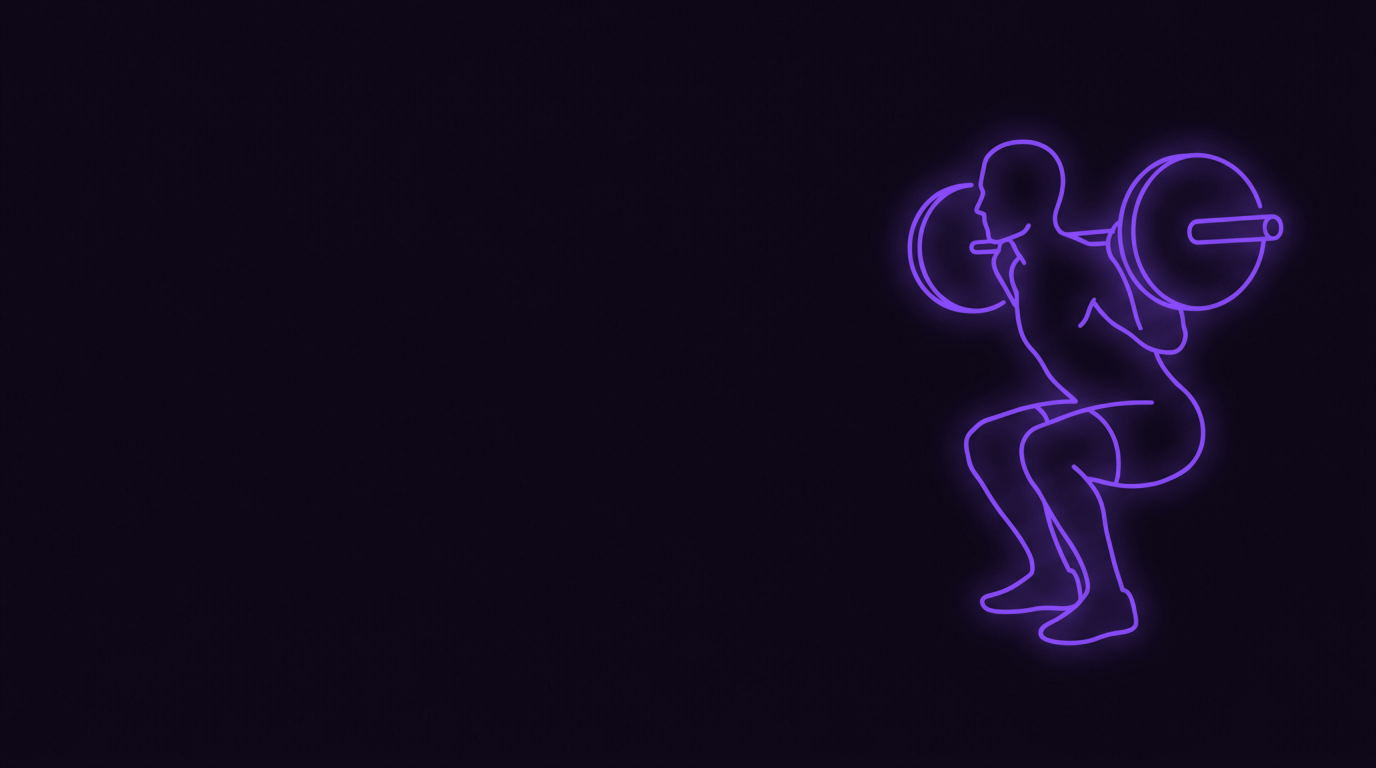
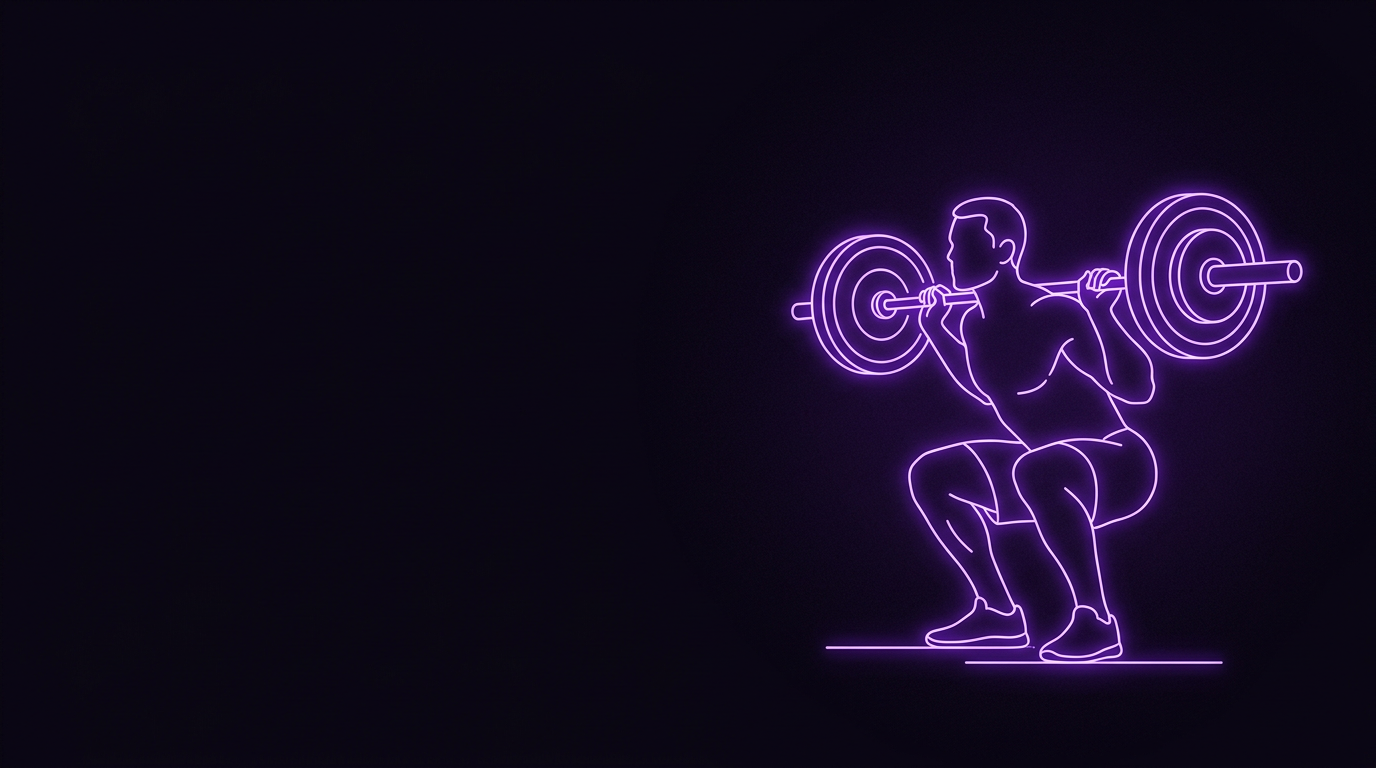
feat(okiro): el rango pasa a medir racha y el aura de la marca sube con el
MECANICA (la parte honesta del kit)
- El rango E-S ya no sale del nivel: mide dias seguidos con registro
  (E 0-2, D 3-6, C 7-13, B 14-29, A 30-59, S 60+). Si hoy aun no has
  registrado, la racha de ayer sigue viva hasta que el dia termine.
- El nivel/XP se queda como estaba: miden volumen, no constancia.
- El simbolo de la cabecera ahora es dinamico: el aura sube de altura y se
  enciende segun tu rango (posicion cy + color por rango). En E apenas asoma
  un filo gris; en S esta alta e incandescente.
- La linea de HOY muestra RACHA N DIAS con el color de aura del rango.
- El backend devuelve 90 dias de logs en vez de 30: con 30 el rango S era
  incomputable en el cliente.

VOZ (kit de marca: constata, no consuela)
- Toasts sin emojis: "RANGO C. El aura sube." / "NIVEL 5."
- Prompts de la IA rebrandeados: el sistema OKIRO habla en imperativo, corto,
  sin emojis ni exclamaciones. La escala semanal incluye el rango E.

ASSETS (generados en Higgsfield web, 0 creditos)
- Banners PUSH y LEGS nativos en violeta de marca (el PULL queda recoloreado).
- Fondo del lock screen: el horizonte con el aura subiendo (lock-bg.png),
  con fallback en degradado CSS si la imagen no carga.

LIMPIEZA
- Ultimas referencias a OkiroSport renombradas (server, package.json, mock).
- Service worker a v4.1.0.

Changed region(s): [[0.5625, 0.1562, 0.9688, 0.9062]]

diff --git a/src/js/app.js b/src/js/app.js
@@ -382,10 +382,12 @@ function renderChecklist(d) {
 function renderStreakInfo() {
   const el = document.getElementById('hoy-streak-info');
   if (!el) return;
-  const lvl = localStorage.getItem('okiro_lvl') || '1';
-  const xp  = parseInt(localStorage.getItem('okiro_xp') || '0', 10);
+  const lvl    = localStorage.getItem('okiro_lvl') || '1';
+  const xp     = parseInt(localStorage.getItem('okiro_xp') || '0', 10);
+  const streak = parseInt(localStorage.getItem('okiro_streak') || '0', 10);
+  const rank   = localStorage.getItem('okiro_rank') || 'E';
   el.innerHTML = `
-    <span class="hoy-streak-fire">🔥</span>
+    <span style="color:${AURA_COLOR[rank] || '#8B4DFF'}">RACHA ${streak} ${streak === 1 ? 'DÍA' : 'DÍAS'}</span>
     <span>LVL ${lvl}</span>
     <span class="hoy-streak-xp">${xp.toLocaleString('es')} XP</span>`;
 }
@@ -444,13 +446,43 @@ function dayXP(l) {
   return xp;
 }
 
-function rankForLevel(lvl) {
-  if (lvl >= 26) return ['S', 'rank-s'];
-  if (lvl >= 17) return ['A', 'rank-a'];
-  if (lvl >= 10) return ['B', 'rank-b'];
-  if (lvl >= 5)  return ['C', 'rank-c'];
-  if (lvl >= 2)  return ['D', 'rank-d'];
+/* Racha: días seguidos con registro, contando hacia atrás desde hoy.
+   Si hoy aún no has registrado, la racha de ayer sigue viva (no se rompe
+   hasta que el día termina sin registro). */
+function currentStreak(logs) {
+  if (!Array.isArray(logs) || !logs.length) return 0;
+  const days = new Set(logs.map(l => String(l.fecha).slice(0, 10)));
+  const iso  = d => `${d.getFullYear()}-${String(d.getMonth() + 1).padStart(2, '0')}-${String(d.getDate()).padStart(2, '0')}`;
+  const d = new Date();
+  if (!days.has(iso(d))) d.setDate(d.getDate() - 1);
+  let streak = 0;
+  while (days.has(iso(d))) { streak++; d.setDate(d.getDate() - 1); }
+  return streak;
+}
+
+/* El rango mide constancia, no fuerza: días seguidos levantándote y
+   registrando (kit de marca). El nivel/XP sigue midiendo volumen aparte. */
+function rankForStreak(n) {
+  if (n >= 60) return ['S', 'rank-s'];
+  if (n >= 30) return ['A', 'rank-a'];
+  if (n >= 14) return ['B', 'rank-b'];
+  if (n >= 7)  return ['C', 'rank-c'];
+  if (n >= 3)  return ['D', 'rank-d'];
   return ['E', 'rank-e'];   // donde empieza todo el mundo
+}
+
+/* El aura del símbolo de cabecera sube y se enciende con el rango */
+const AURA_COLOR = { E: '#4B4557', D: '#6D5A9E', C: '#8B4DFF', B: '#A472FF', A: '#C08BFF', S: '#E4C4FF' };
+const AURA_CY    = { E: 76, D: 70, C: 62, B: 58, A: 55, S: 52 };
+function setHdrAura(label) {
+  const aura  = document.getElementById('hdr-aura');
+  const faint = document.getElementById('hdr-faint');
+  const cy    = AURA_CY[label] ?? 62;
+  if (aura) {
+    aura.setAttribute('cy', cy);
+    aura.setAttribute('stroke', AURA_COLOR[label] || '#8B4DFF');
+  }
+  if (faint) faint.setAttribute('cy', cy);
 }
 
 function updatePlayer(logs) {
@@ -471,14 +503,26 @@ function updatePlayer(logs) {
   if (lvlEl)  lvlEl.textContent  = 'LVL ' + lvl;
   if (fillEl) fillEl.style.width = Math.min(100, Math.round((rem / need) * 100)) + '%';
   if (xpEl)   xpEl.textContent   = rem + ' / ' + need + ' XP';
+
+  /* Rango por racha, no por nivel (kit de marca) */
+  const streak = currentStreak(logs);
+  const [label, cls] = rankForStreak(streak);
   if (chip) {
-    const [label, cls] = rankForLevel(lvl);
     chip.textContent = label;
-    chip.className    = 'rank-badge ' + cls;
+    chip.className   = 'rank-badge ' + cls;
   }
+  setHdrAura(label);
+
+  const prevRank = localStorage.getItem('okiro_rank') || '';
+  const ORDER = 'EDCBAS';
+  if (prevRank && ORDER.indexOf(label) > ORDER.indexOf(prevRank) && typeof toast === 'function') {
+    toast(`RANGO ${label}. El aura sube.`, 'ok');
+  }
+  localStorage.setItem('okiro_rank', label);
+  localStorage.setItem('okiro_streak', String(streak));
 
   if (prevLvl && lvl > prevLvl && typeof toast === 'function') {
-    toast(`⬆ NIVEL ${lvl} — RANGO ${rankForLevel(lvl)[0]}`, 'ok');
+    toast(`NIVEL ${lvl}.`, 'ok');
   }
   localStorage.setItem('okiro_lvl', String(lvl));
 

diff --git a/server.js b/server.js
@@ -1,4 +1,4 @@
-// OkiroSport Backend v3 — producción
+// OKIRO Backend v4 — producción
 // Requiere Node 18+ (usa fetch global)
 const express = require('express');
 const { Pool } = require('pg');
@@ -134,7 +134,8 @@ app.get('/health', async (req, res) => {
 // ════════════════════════════════════════════════════════
 app.get('/logs', async (req, res) => {
   try {
-    const { rows } = await db('SELECT * FROM daily_logs ORDER BY fecha DESC LIMIT 30');
+    // 90 días: con 30 el rango S (racha de 60+) era incomputable en el cliente
+    const { rows } = await db('SELECT * FROM daily_logs ORDER BY fecha DESC LIMIT 90');
     res.json(rows);
   } catch (e) { res.status(500).json({ error: e.message }); }
 });
@@ -524,7 +525,8 @@ async function buildPromptDaily() {
     { calorias: 0, proteinas: 0, carbos: 0, grasas: 0 }
   );
   const entreno = logHoy.entreno_completado ? `sí (${logHoy.tipo_entreno || 'sin tipo'})` : 'no';
-  return `Eres el sistema de análisis de rendimiento de OkiroSport.
+  return `Eres el sistema OKIRO ("levántate"). Hablas en imperativo, corto y sin adornos.
+Constatas, no consuelas ni celebras de más. Cero emojis, cero exclamaciones.
 Atleta: ${APP_USER_NAME}. Híbrido gym + running + emprendedor.
 
 LOG DE HOY:
@@ -545,7 +547,7 @@ Da un análisis breve (máx 150 palabras) con:
 2. Punto fuerte
 3. Punto a mejorar mañana
 4. Puntuación del día X/10
-Responde en español, tono directo de sistema RPG.`;
+Responde en español. Sin emojis. Frases cortas, de sistema, no de coach.`;
 }
 
 async function buildPromptWeekly() {
@@ -558,7 +560,8 @@ async function buildPromptWeekly() {
   const media = (fn) => logs.length ? (logs.reduce((s, l) => s + (parseFloat(fn(l)) || 0), 0) / logs.length).toFixed(1) : '—';
   const totalTareas = logs.reduce((s, l) => s + (parseInt(l.tareas_completadas) || 0), 0);
   const tipos = [...new Set(logs.filter(l => l.entreno_completado && l.tipo_entreno).map(l => l.tipo_entreno))].join(', ') || 'ninguno';
-  return `Eres el sistema de análisis de rendimiento de OkiroSport.
+  return `Eres el sistema OKIRO ("levántate"). Hablas en imperativo, corto y sin adornos.
+Constatas, no consuelas ni celebras de más. Cero emojis, cero exclamaciones.
 Atleta: ${APP_USER_NAME}. Híbrido gym + running + emprendedor.
 
 RESUMEN SEMANAL (últimos 7 días):
@@ -575,8 +578,8 @@ Da un análisis semanal (máx 200 palabras) con:
 2. Mejor día y por qué
 3. Patrón a corregir
 4. Objetivo concreto para la próxima semana
-5. Rango de la semana: D/C/B/A/S con justificación
-Responde en español, tono directo de sistema RPG.`;
+5. Rango de la semana: E/D/C/B/A/S con justificación
+Responde en español. Sin emojis. Frases cortas, de sistema, no de coach.`;
 }
 
 app.post('/ia/resumen', async (req, res) => {
@@ -708,7 +711,7 @@ app.patch('/logs/:fecha/nota', async (req, res) => {
 
 // ── Fallback SPA: cualquier GET no-API sirve el index ────
 app.listen(PORT, () => {
-  console.log(`OkiroSport Backend v3.0 · :${PORT}`);
+  console.log(`OKIRO Backend v4.0 · :${PORT}`);
   console.log(`· Auth:  ${APP_TOKEN ? 'ACTIVADA (APP_TOKEN)' : 'DESACTIVADA — define APP_TOKEN en producción'}`);
   console.log(`· IA:    ${ANTHROPIC_KEY ? `activa · modelo ${AI_MODEL} · límite ${AI_DAILY_LIMIT}/día` : 'sin ANTHROPIC_API_KEY'}`);
 });

diff --git a/mock.js b/mock.js
@@ -1,4 +1,4 @@
-// ============================================================
+// ============================================================
 // MOCK DE DATOS — SOLO DESARROLLO LOCAL
 // ============================================================
 // Solo se activa si la URL lleva ?mock=1 (o localStorage.OKIRO_MOCK='1').
@@ -96,7 +96,7 @@
   ];
 
   const MOCK_PROYECTOS = [
-    { id: 1, nombre: 'OkiroSport PWA',      objetivo: 'MVP desplegado',          progreso: 78, ultima_accion: 'Deploy v2 + módulo gym' },
+    { id: 1, nombre: 'OKIRO PWA',      objetivo: 'MVP desplegado',          progreso: 78, ultima_accion: 'Deploy v2 + módulo gym' },
     { id: 2, nombre: 'Agencia IA Freelance', objetivo: 'Primer cliente cerrado',  progreso: 45, ultima_accion: 'Propuesta cliente #3'   },
     { id: 3, nombre: 'Contenido Training',   objetivo: '1k seguidores',           progreso: 30, ultima_accion: 'Vídeo Press Banca'       }
   ];

diff --git a/index.html b/index.html
@@ -89,8 +89,8 @@
    <div id="hdr-brand">
     <svg viewBox="0 0 100 100" width="26" height="26" aria-hidden="true" id="hdr-mark">
      <defs><clipPath id="hdr-hz"><rect x="0" y="0" width="100" height="62"/></clipPath></defs>
-     <circle cx="50" cy="62" r="24" fill="none" stroke="currentColor" stroke-width="6" opacity="0.25"/>
-     <circle cx="50" cy="62" r="24" fill="none" stroke="var(--brand)" stroke-width="6" clip-path="url(#hdr-hz)"/>
+     <circle id="hdr-faint" cx="50" cy="62" r="24" fill="none" stroke="currentColor" stroke-width="6" opacity="0.25"/>
+     <circle id="hdr-aura" cx="50" cy="62" r="24" fill="none" stroke="var(--brand)" stroke-width="6" clip-path="url(#hdr-hz)"/>
      <line x1="14" y1="62" x2="86" y2="62" stroke="currentColor" stroke-width="4" stroke-linecap="square"/>
     </svg>
     <div><p id="fh">HOY</p><h1>OKIRO</h1></div>

diff --git a/src/css/styles.css b/src/css/styles.css
@@ -509,7 +509,12 @@ button, .nb, .streak-day, .stl, .ct, #hdr, #nav, .rc {
 #lock {
   position:        fixed;
   inset:           0;
-  background:      var(--bg-base);
+  /* El horizonte de marca: aura violeta asomando por el tercio inferior.
+     assets/lock-bg.png encima si existe; el degradado es el fallback. */
+  background:
+    url('/assets/lock-bg.png') center bottom / cover no-repeat,
+    linear-gradient(to top, rgba(139, 77, 255, 0.22), transparent 45%),
+    var(--bg-base);
   z-index:         300;
   display:         flex;
   align-items:     center;

diff --git a/sw.js b/sw.js
@@ -3,7 +3,7 @@
 //  · Estáticos (css/js/iconos/fuentes): cache-first con actualización en segundo plano
 //  · Navegación (index.html): network-first con fallback a caché (offline)
 //  · API (/logs, /rutinas, ...): siempre red — nunca cachear datos
-const VERSION = 'okiro-v4.0.0';
+const VERSION = 'okiro-v4.1.0';
 const STATIC_CACHE = `${VERSION}-static`;
 
 const PRECACHE = [
